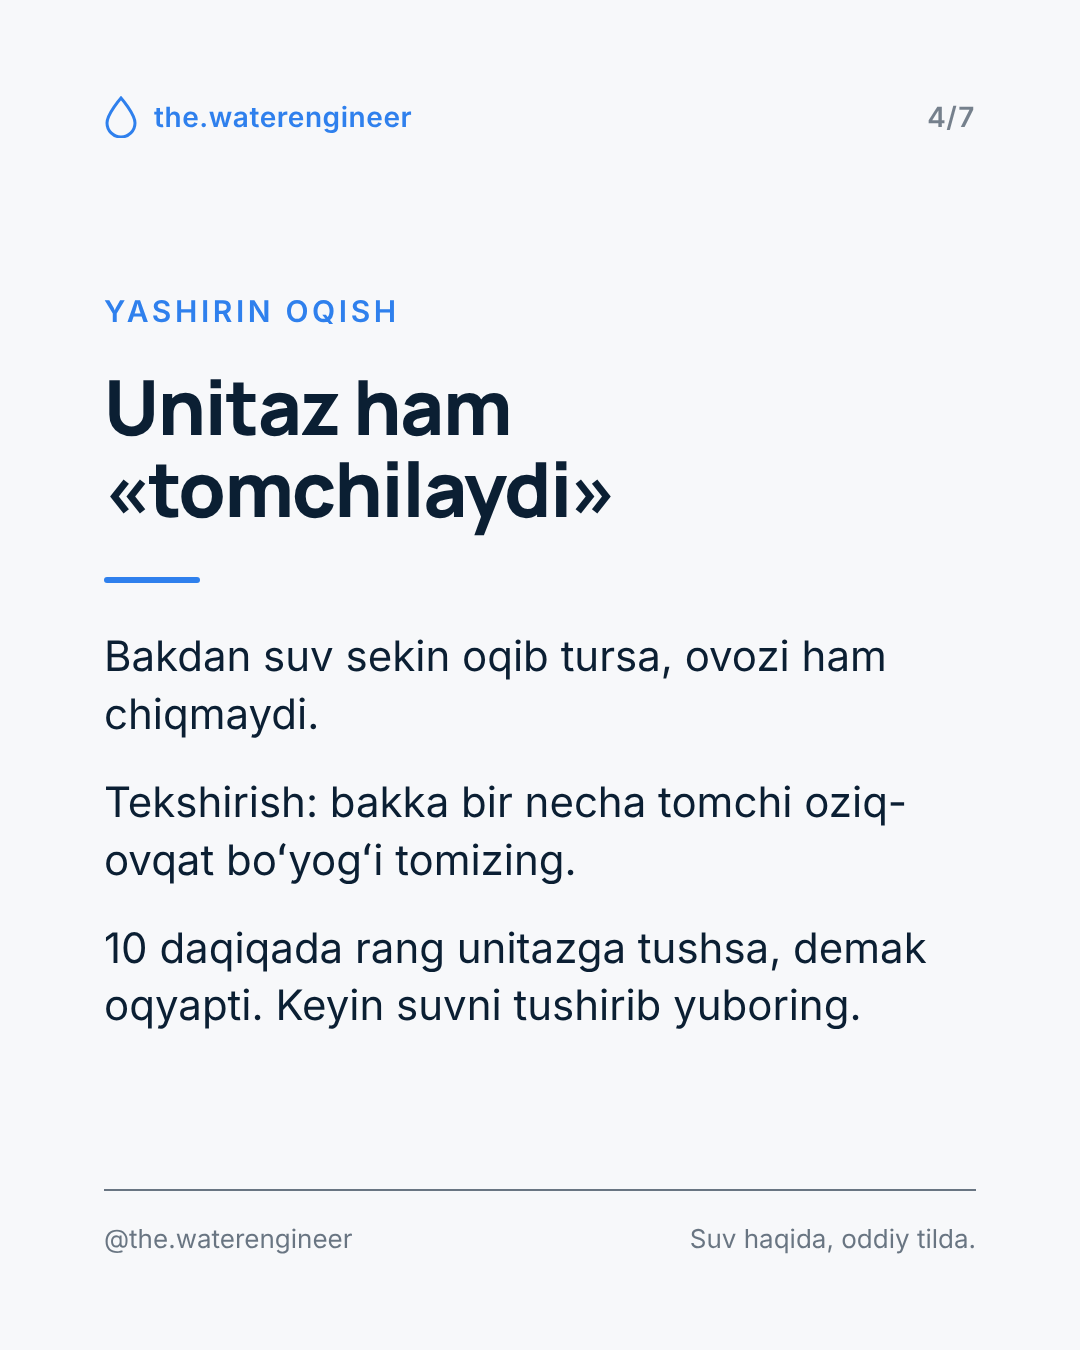
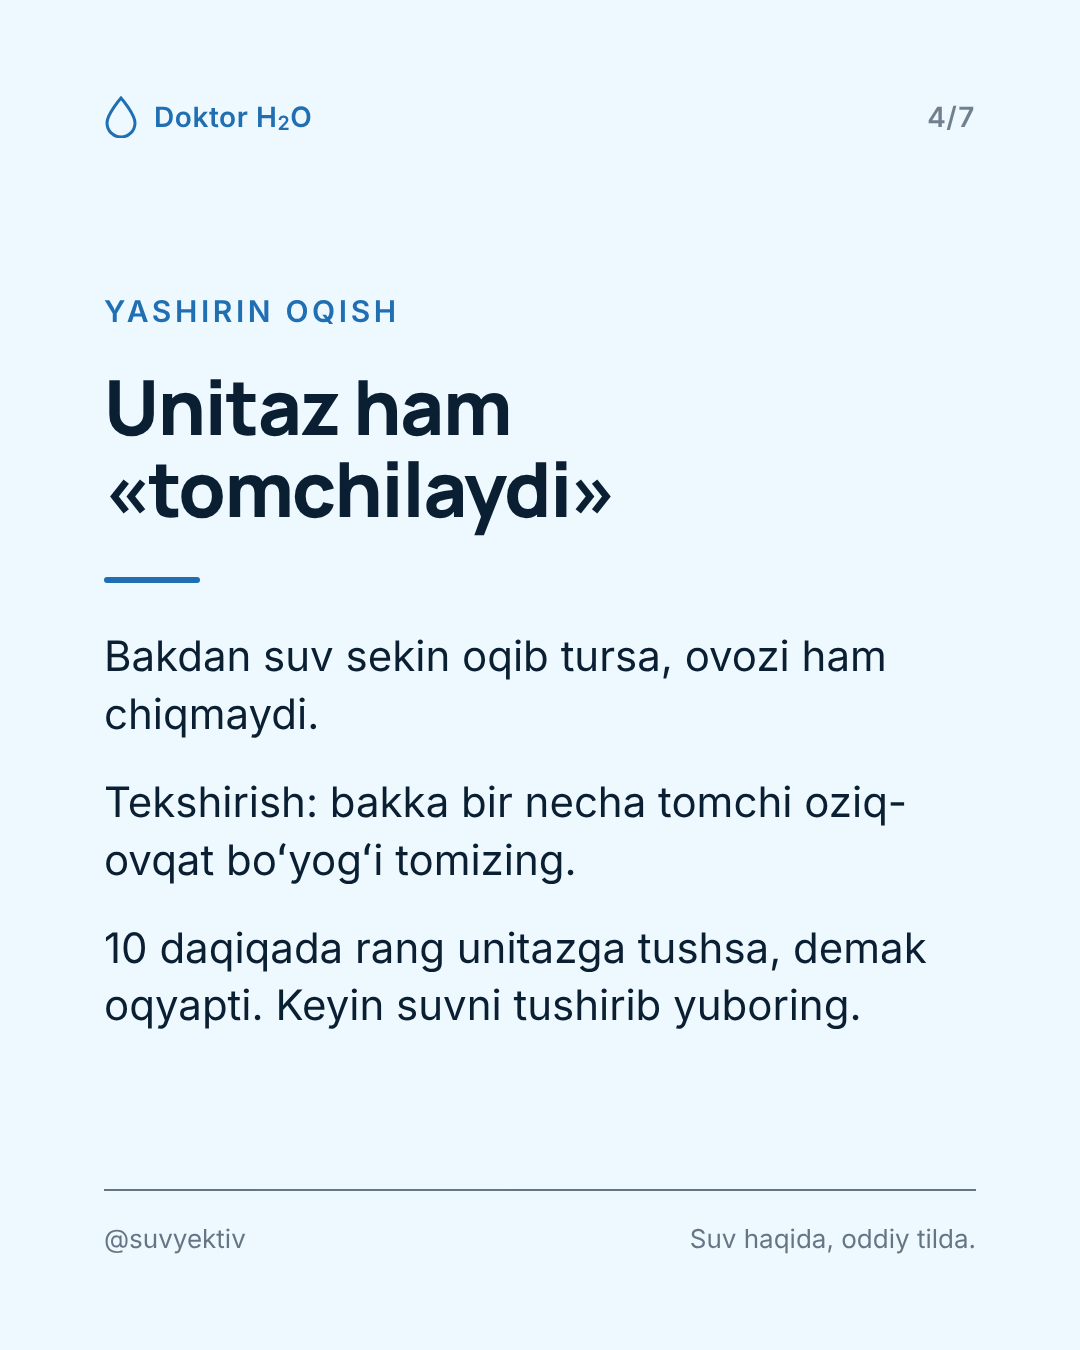
One look for Instagram + YouTube: sky theme, Doktor H2O / @suvyektiv by default; re-render 21.10 carousel
Claude-Session: https://claude.ai/code/session_017tyQ8NA2rfE7t4kXyjLtwp

diff --git a/tools/render.py b/tools/render.py
@@ -57,10 +57,10 @@ h1{font-family:Manrope,ManropeX,sans-serif;font-weight:800;font-size:76px;line-h
 """
 
 e = html.escape
-# Branding (defaults = Instagram @the.waterengineer). For the YouTube channel:
-#   BRAND="Doktor H<sub>2</sub>O" HANDLE="@suvyektiv" python3 render.py ...
-BRAND = os.environ.get("BRAND", "the.waterengineer")  # raw HTML allowed
-HANDLE = os.environ.get("HANDLE", "@the.waterengineer")
+# Branding (2026-10-21: Instagram and YouTube share one look — Doktor H2O / @suvyektiv, sky theme).
+# Old Instagram look: THEME=navy BRAND=the.waterengineer HANDLE=@the.waterengineer
+BRAND = os.environ.get("BRAND", "Doktor H<sub>2</sub>O")  # raw HTML allowed
+HANDLE = os.environ.get("HANDLE", "@suvyektiv")
 TAGLINE = os.environ.get("TAGLINE", "Suv haqida, oddiy tilda.")
 # THEME=sky: Doktor H2O palette, taken from the YouTube avatar (sky-blue #84D2FD bg, navy "Dr. H2O" text)
 THEME_CSS = {"sky": """
@@ -73,7 +73,7 @@ THEME_CSS = {"sky": """
 .steps .n{border-color:#1F6FB2;color:#1F6FB2}
 .note{border-left-color:#1F6FB2;background:#D6EFFE}
 .dark .foot{opacity:.7}
-"""}.get(os.environ.get("THEME", ""), "")
+"""}.get(os.environ.get("THEME", "sky"), "")
 n = len(slides)
 for i, s in enumerate(slides, 1):
     k = s["kind"]
